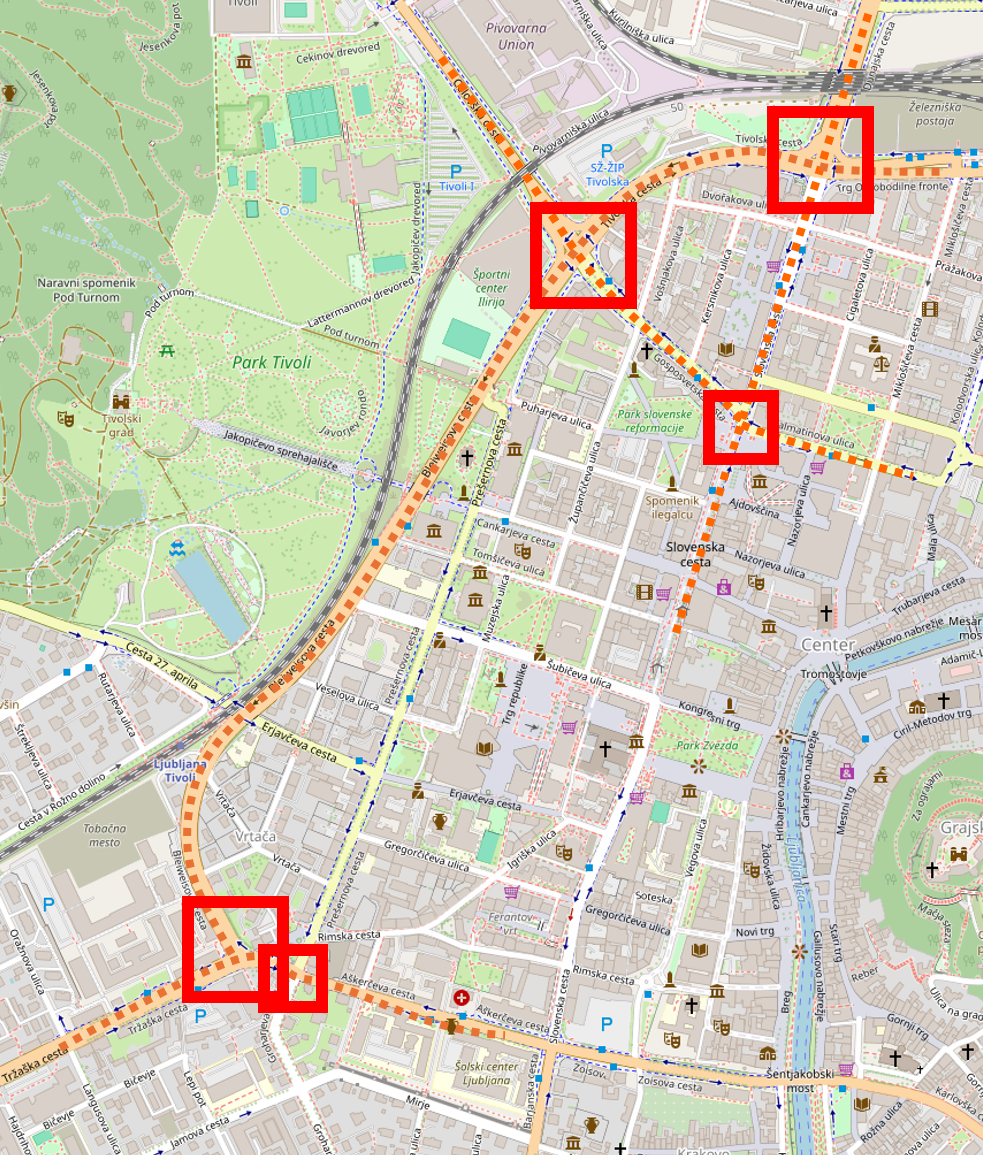
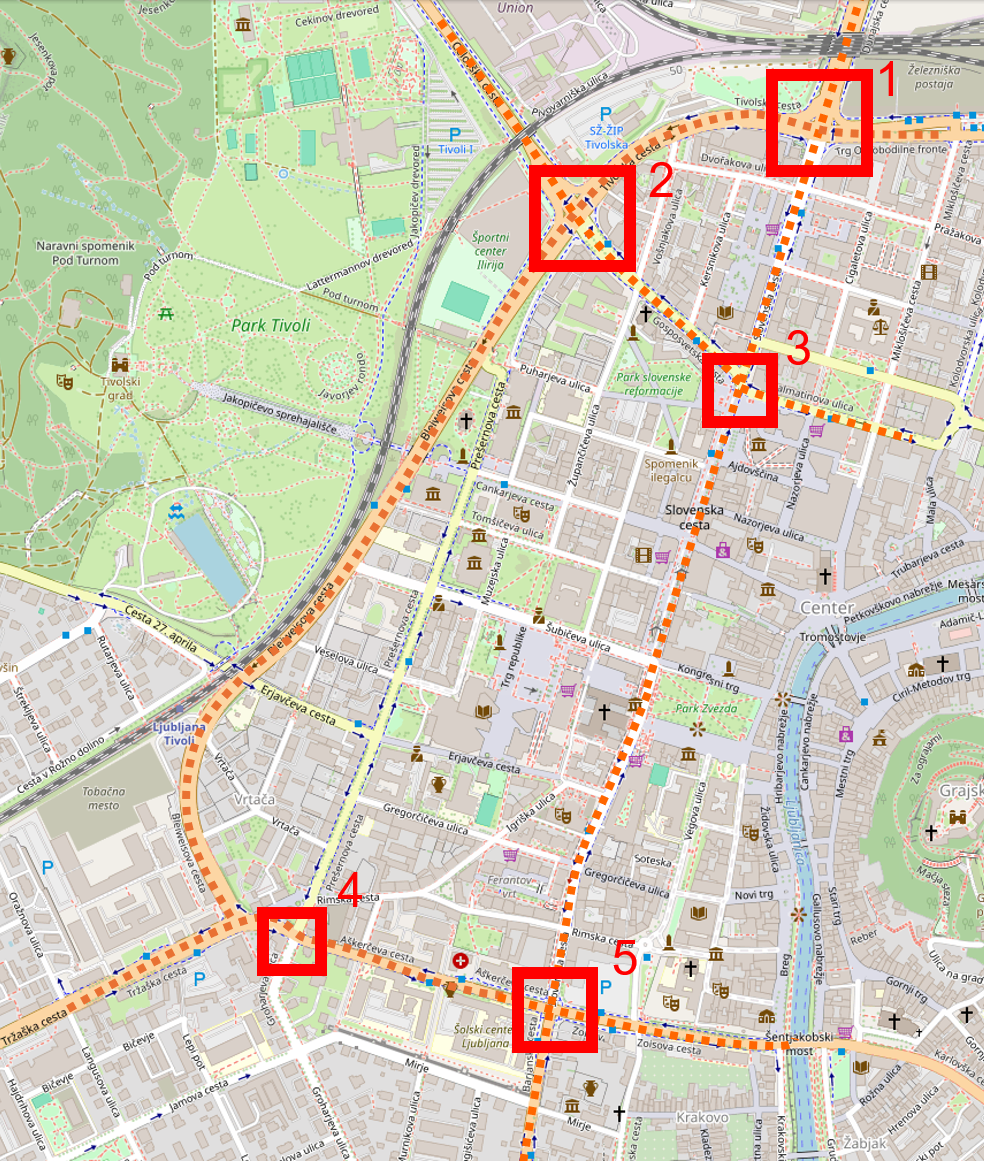
Updated intersections

diff --git a/README.md b/README.md
@@ -12,14 +12,12 @@ Agenti s spodbujevalnim ucenjem (neodvisni PPO), uceni v simulatorju SUMO, za op
 
 Zaradi kompleksnosti optimizacije vecjega obmocja smo se osredoticili na optimizacijo le 5 krizisc. Zelimo narediti prototip, ki dokaze, da se promet lahko optimizira, seveda bi pa v realnosti naredili optimizacijo na nivoju obmocja.
 
-Tri kljucna krizisca, ki tvorijo trikotnik:
-- **Bleiweisova / Trzaska / Askerceva** (jugozahod)
-- **Bleiweisova / Celovska / Tivolska** (severozahod)
-- **Tivolska / Dunajska / Slovenska** (severovzhod)
-
-Zraven smo dodali se 2 manjsi krizisci, ki mocno vplivata na ta tri kljucna krizisca:
-- **Slovenska/ Gosposvetska / Dalmatinova**
-- **Askerceva / Presernova / Groharjeva**
+Opazujemo sledeca krizisca:
+1. **Tivolska / Slovenska / Dunajska / Trg OF**
+2. **Bleiweisova / Tivolska / Celovska / Gosposvetska**
+3. **Slovenska / Gosposvetska / Dalmatinova**
+4. **Askerceva / Presernova / Groharjeva**
+5. **Askerceva / Zoisova / Slovenska / Barjanska**
 
 ![Slika izbranih krizisc](./data/media/Observed_intersections.png)
 
